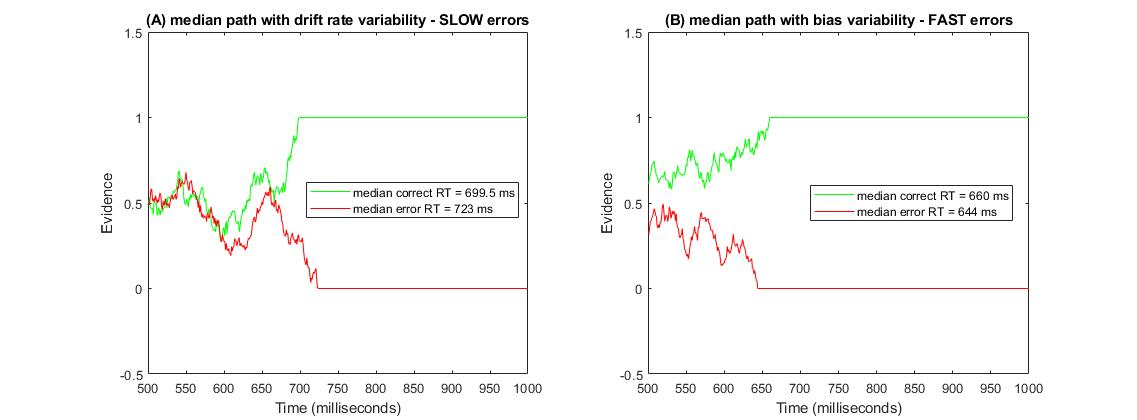
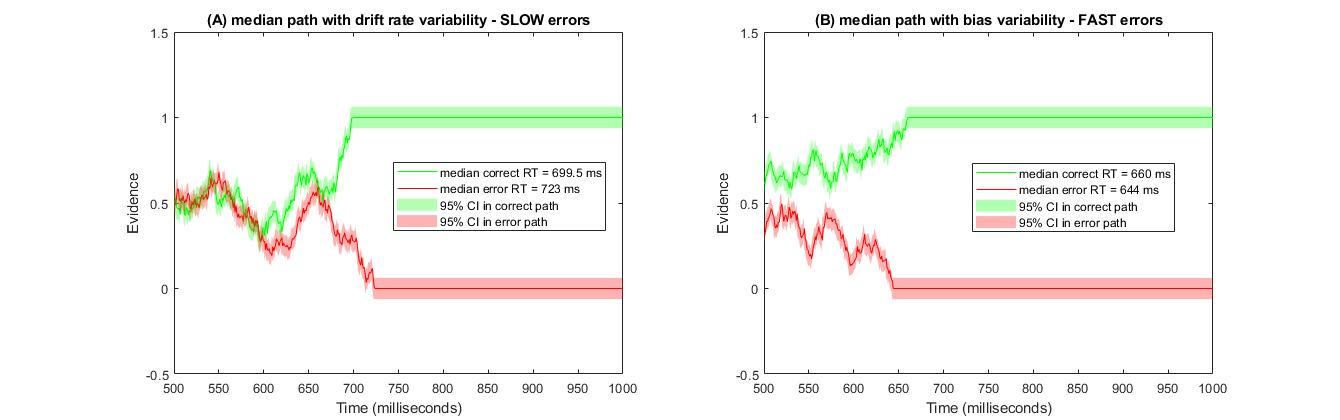
add 95% CI to the plots

diff --git a/assignment3/Bias_variation_Zhibin.m b/assignment3/Bias_variation_Zhibin.m
@@ -84,13 +84,31 @@ C=(correctrt-correctrtM).^2;
 E=(errorrt-errorrtM).^2;
 Pc=pathCorret(find(C==min(C)),:);
 Pe=pathError(find(E==min(E)),:);
-% Pc=pathCorret(find(correctrt==correctrtM),:);
-% Pe=pathError(find(errorrt==errorrtM),:);
+
+
+x_ax    = 0:nsteps;
+X_plot  = [x_ax, fliplr(x_ax)];
+Y_plot_C  = [Pc(1,:)-1.96.*sd*sqrt(dt), fliplr(Pc(1,:)+1.96.*sd*sqrt(dt))];
+Y_plot_E  = [Pe(1,:)-1.96.*sd*sqrt(dt), fliplr(Pe(1,:)+1.96.*sd*sqrt(dt))];
+
+
 plot(Pc(1,:)','g');
 hold on;
 plot(Pe(1,:)','r');
 xlabel('Time (milliseconds)');
 ylabel('Evidence');
+
+
+fill(X_plot, Y_plot_C , 1,....
+        'facecolor','green', ...
+        'edgecolor','none', ...
+        'facealpha', 0.3);
+fill(X_plot, Y_plot_E , 1,....
+        'facecolor','red', ...
+        'edgecolor','none', ...
+        'facealpha', 0.3);
+
+
 set(gca,'YLim',[-0.5 criterion+0.5]);
 set(gca,'XLim',[0 500]);
 xticks(linspace(0,500,11));
@@ -98,7 +116,7 @@ xticklabels(linspace(500,1000,11));
 correctTXT=['median correct RT = ' num2str(correctrtM) ' ms'];
 errorTXT=['median error RT = ' num2str(errorrtM) ' ms'];
 
-legend(correctTXT,errorTXT);
+legend(correctTXT,errorTXT,'95% CI in correct path','95% CI in error path');
 title('(B) median path with bias variability - FAST errors')
 %Make a histogram of mean random walks. 
 

diff --git a/assignment3/Drift_variation_Zhibin.m b/assignment3/Drift_variation_Zhibin.m
@@ -83,18 +83,35 @@ C=(correctrt-correctrtM).^2;
 E=(errorrt-errorrtM).^2;
 Pc=pathCorret(find(C==min(C)),:);
 Pe=pathError(find(E==min(E)),:);
+
+
+x_ax    = 0:nsteps;
+X_plot  = [x_ax, fliplr(x_ax)];
+Y_plot_C  = [Pc(1,:)-1.96.*sd*sqrt(dt), fliplr(Pc(1,:)+1.96.*sd*sqrt(dt))];
+Y_plot_E  = [Pe(1,:)-1.96.*sd*sqrt(dt), fliplr(Pe(1,:)+1.96.*sd*sqrt(dt))];
+
 plot(Pc(1,:)','g');
 hold on;
 plot(Pe(1,:)','r');
 xlabel('Time (milliseconds)');
 ylabel('Evidence');
+
+fill(X_plot, Y_plot_C , 1,....
+        'facecolor','green', ...
+        'edgecolor','none', ...
+        'facealpha', 0.3);
+fill(X_plot, Y_plot_E , 1,....
+        'facecolor','red', ...
+        'edgecolor','none', ...
+        'facealpha', 0.3);
+
 set(gca,'YLim',[-0.5 criterion+0.5]);
 set(gca,'XLim',[0 500]);
 xticks(linspace(0,500,11));
 xticklabels(linspace(500,1000,11));
 correctTXT=['median correct RT = ' num2str(correctrtM) ' ms'];
 errorTXT=['median error RT = ' num2str(errorrtM) ' ms'];
-legend(correctTXT,errorTXT);
+legend(correctTXT,errorTXT,'95% CI in correct path','95% CI in error path');
 title('(A) median path with drift rate variability - SLOW errors')
 %Make a histogram of mean random walks. 
 
